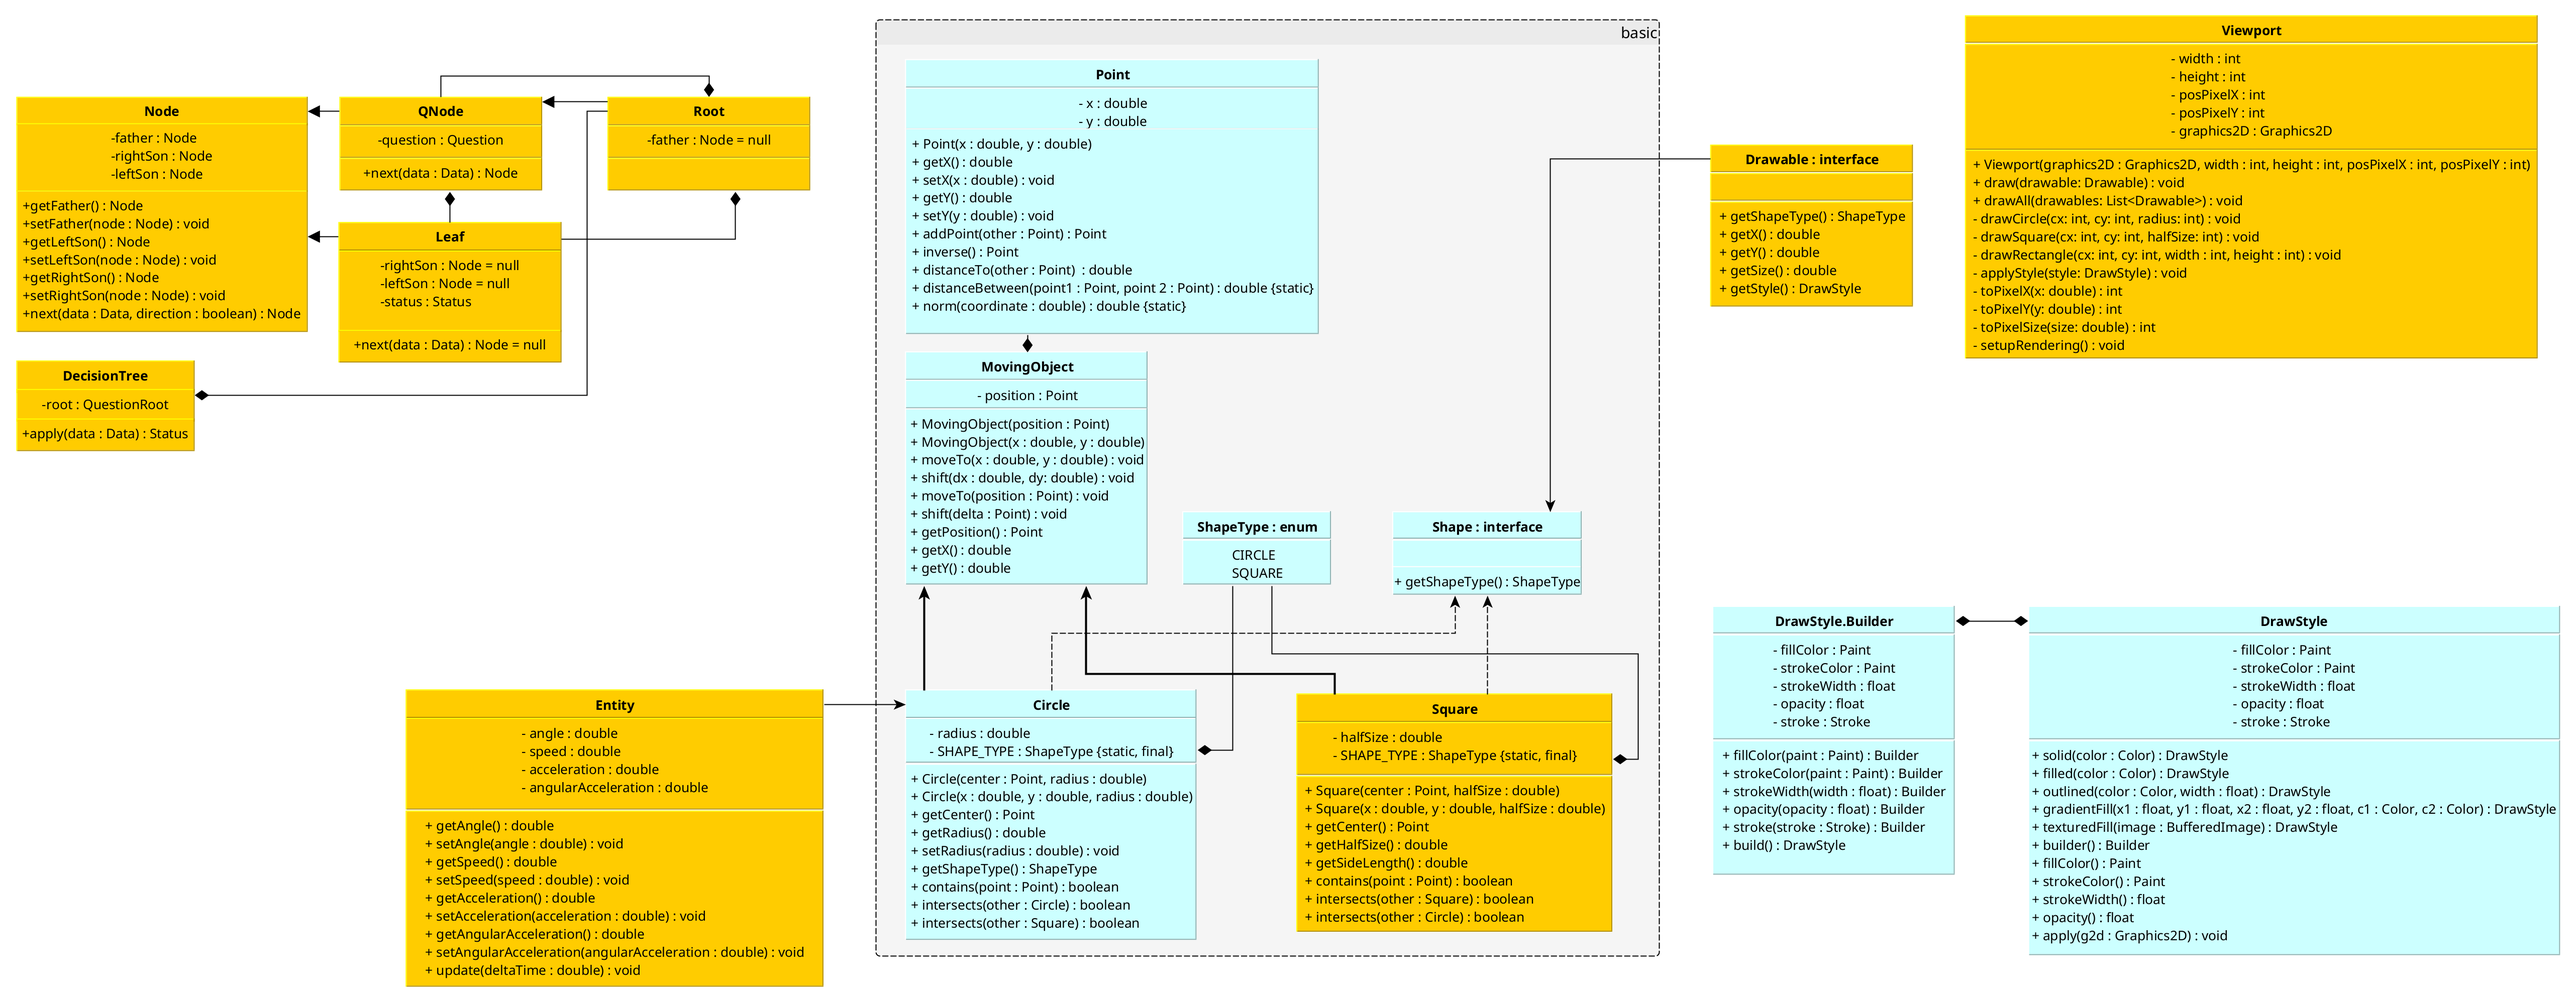
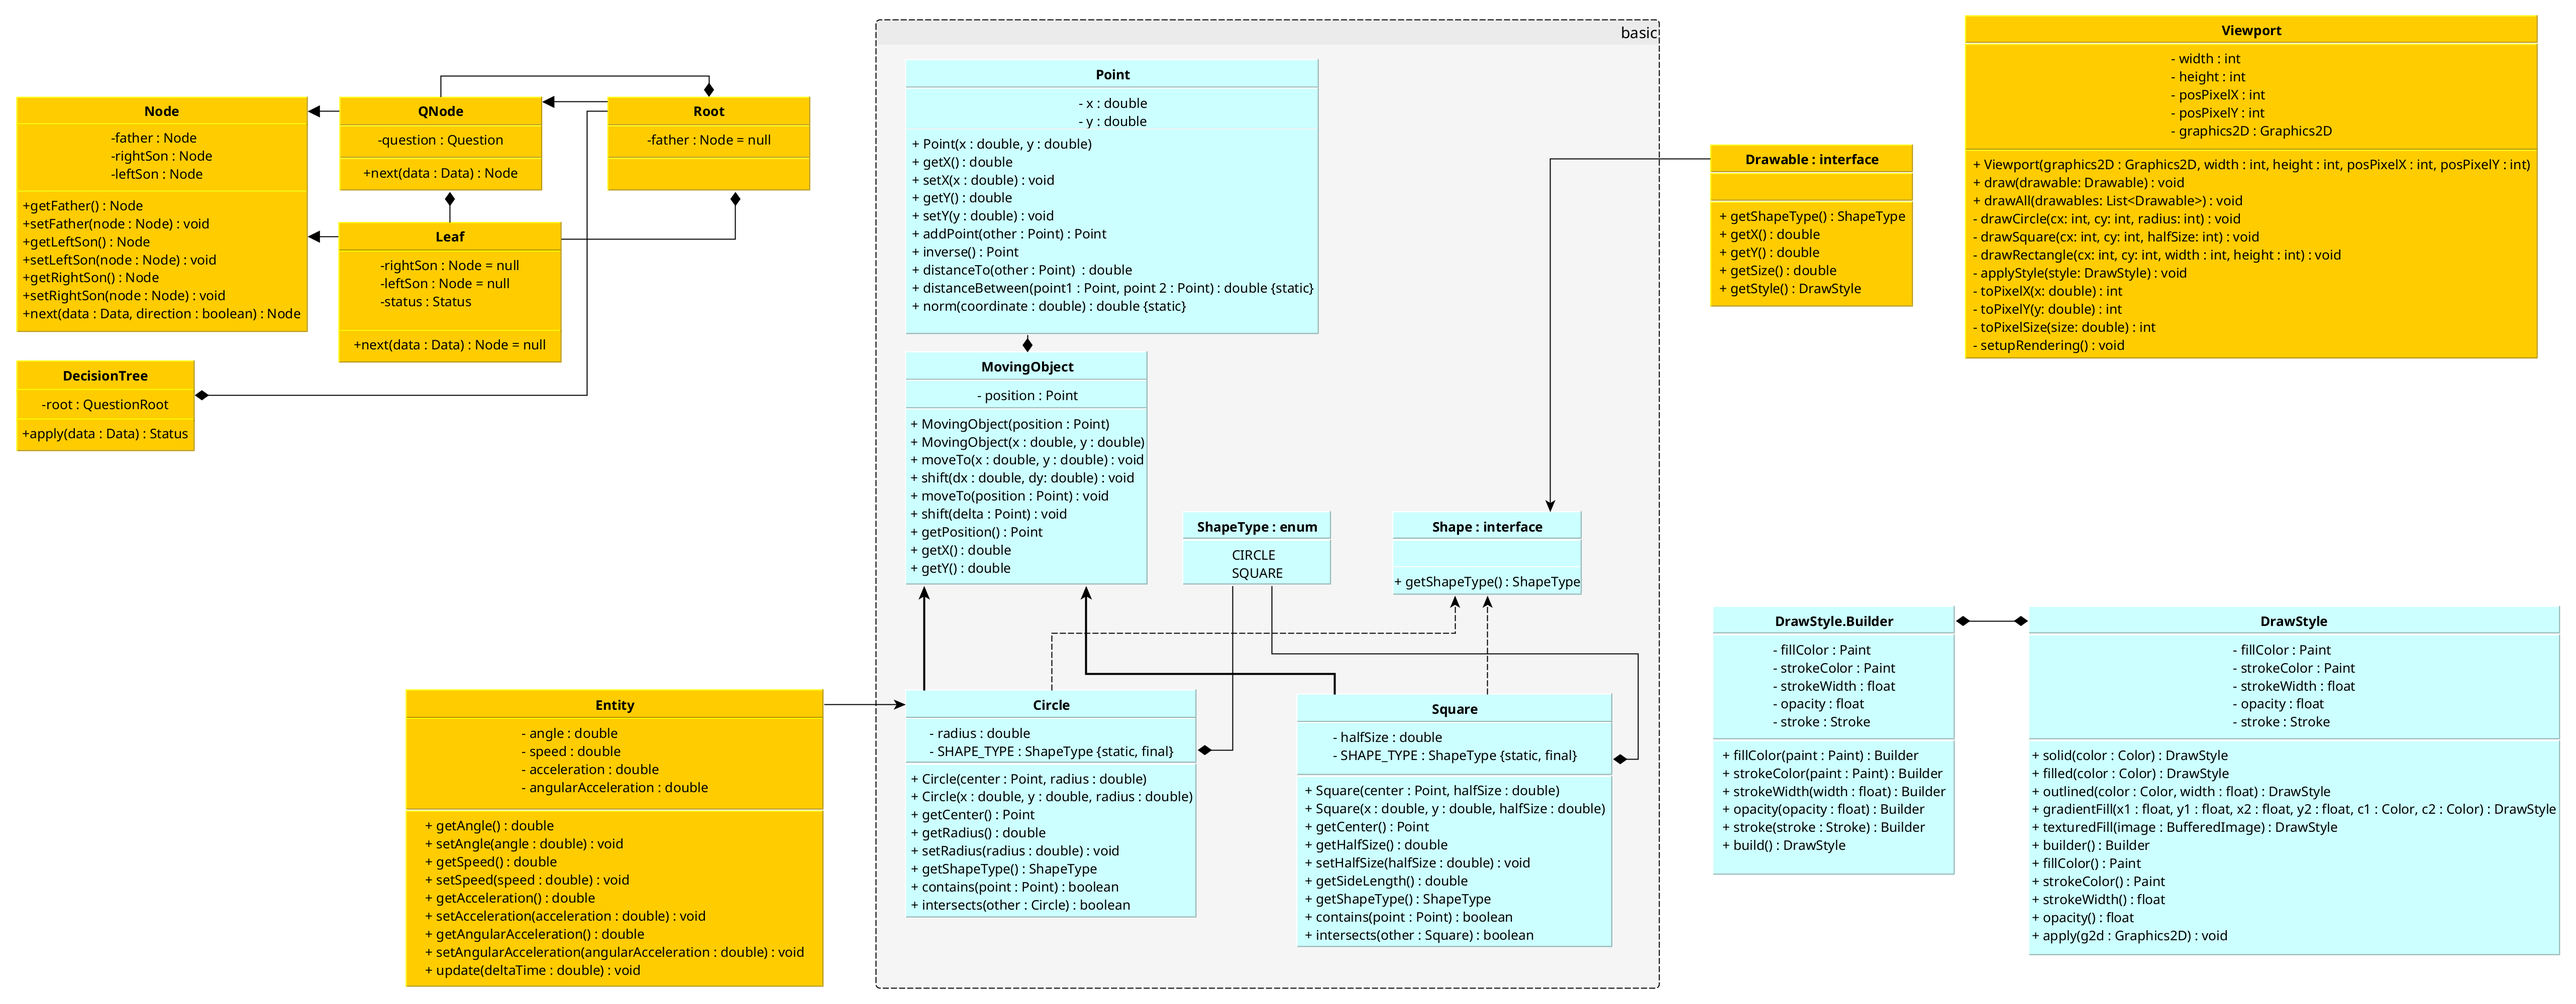
Square + tests

Changed region(s): [[0.4993, 0.682, 0.6241, 0.961], [0.3433, 0.899, 0.4681, 0.961]]

diff --git a/src/test/java/org/jinseisieko/evolution/basic/SquareTest.java b/src/test/java/org/jinseisieko/evolution/basic/SquareTest.java
@@ -1,0 +1,288 @@
+// src/test/java/org/jinseisieko/evolution/basic/SquareTest.java
+package org.jinseisieko.evolution.basic;
+
+import org.junit.jupiter.api.Test;
+import static org.junit.jupiter.api.Assertions.*;
+import org.junit.jupiter.params.ParameterizedTest;
+import org.junit.jupiter.params.provider.CsvSource;
+
+/**
+ * Unit tests for the {@link Square} class, which represents an axis-aligned square region
+ * in a 2D toroidal space [0,1) × [0,1). The square extends {@link MovingObject} and implements
+ * the {@link Shape} interface, adding a half-size parameter that defines the distance
+ * from the center to any side. It supports spatial queries such as point containment
+ * and intersection with other squares, all computed using toroidal distance.
+ * 
+ * @author jinseisieko
+ */
+class SquareTest {
+
+    // === Test constructors and initial state ===
+
+    /**
+     * Verifies that constructing a {@code Square} from a {@code Point} and half-size
+     * correctly initializes its center using normalized coordinates and stores a defensive copy
+     * (i.e., changes to the original {@code Point} do not affect the square).
+     */
+    @Test
+    void constructorWithPoint_shouldSetNormalizedCenterAndHalfSize() {
+        Point p = new Point(1.2, -0.3);
+        Square square = new Square(p, 0.25);
+
+        assertEquals(0.2, square.getX(), 1e-10);
+        assertEquals(0.7, square.getY(), 1e-10);
+        assertEquals(0.25, square.getHalfSize(), 1e-10);
+
+        p.setX(10);
+        assertEquals(0.2, square.getX(), 1e-10);
+    }
+
+    /**
+     * Confirms that the coordinate-based constructor correctly normalizes inputs
+     * and initializes center.
+     */
+    @Test
+    void constructorWithCoordinates_shouldNormalizeAndSetCenterAndHalfSize() {
+        Square square = new Square(1.5, -0.4, 0.3);
+        assertEquals(0.5, square.getX(), 1e-10);
+        assertEquals(0.6, square.getY(), 1e-10);
+        assertEquals(0.3, square.getHalfSize(), 1e-10);
+    }
+
+    /**
+     * Ensures that passing a negative half-size to the constructor
+     * throws an {@link IllegalArgumentException} with a non-empty, informative message,
+     * preserving geometric validity.
+     */
+    @Test
+    void constructorWithNegativeHalfSize_shouldThrowExceptionWithMessage() {
+        IllegalArgumentException ex = assertThrows(IllegalArgumentException.class, () -> {
+            Square square = new Square(0.0, 0.0, -0.5);
+            square.getHalfSize();
+        });
+        assertNotNull(ex.getMessage());
+        assertFalse(ex.getMessage().isBlank());
+    }
+
+    // === Test inherited movement behavior ===
+
+    /**
+     * Validates that {@code Square} correctly inherits {@code moveTo} behavior from {@code MovingObject},
+     * updating its center while preserving the half-size.
+     */
+    @Test
+    void moveTo_shouldUpdateCenterAndPreserveHalfSize() {
+        Square square = new Square(0.1, 0.2, 0.15);
+        Point target = new Point(1.8, -0.1);
+        square.moveTo(target);
+
+        assertEquals(0.8, square.getX(), 1e-10);
+        assertEquals(0.9, square.getY(), 1e-10);
+        assertEquals(0.15, square.getHalfSize(), 1e-10);
+    }
+
+    /**
+     * Confirms that {@code shift} updates the center using toroidal arithmetic
+     * and leaves the half-size unchanged.
+     */
+    @Test
+    void shift_shouldApplyToroidalAdditionToCenterAndPreserveHalfSize() {
+        Square square = new Square(0.8, 0.9, 0.2);
+        Point delta = new Point(0.3, 0.2);
+        square.shift(delta);
+
+        assertEquals(0.1, square.getX(), 1e-10);
+        assertEquals(0.1, square.getY(), 1e-10);
+        assertEquals(0.2, square.getHalfSize(), 1e-10);
+    }
+
+    // === Test half-size mutability ===
+
+    /**
+     * Validates that {@code setHalfSize} updates the half-size when given a non-negative value.
+     */
+    @Test
+    void setHalfSize_shouldUpdateHalfSize() {
+        Square square = new Square(0.0, 0.0, 0.5);
+        square.setHalfSize(0.75);
+        assertEquals(0.75, square.getHalfSize(), 1e-10);
+        square.setHalfSize(0.34);
+        assertEquals(0.34, square.getHalfSize(), 1e-10);
+    }
+
+    /**
+     * Ensures that calling {@code setHalfSize} with a negative argument
+     * throws an {@link IllegalArgumentException} with a non-empty, informative message.
+     */
+    @Test
+    void setNegativeHalfSize_shouldThrowExceptionWithMessage() {
+        Square square = new Square(0.0, 0.0, 0.5);
+        IllegalArgumentException ex = assertThrows(IllegalArgumentException.class, () -> {
+            square.setHalfSize(-0.1);
+        });
+        assertNotNull(ex.getMessage());
+        assertFalse(ex.getMessage().isBlank());
+    }
+
+    // === Test shape type and side length ===
+
+    /**
+     * Confirms that {@code getShapeType()} always returns {@link ShapeType#SQUARE},
+     * as expected for this class.
+     */
+    @Test
+    void getShapeType_shouldReturnSquare() {
+        Square square = new Square(0.0, 0.0, 0.1);
+        assertEquals(ShapeType.SQUARE, square.getShapeType());
+        square.moveTo(0.1, 0.1);
+        assertEquals(ShapeType.SQUARE, square.getShapeType());
+        square.shift(0.1, 0.2);
+        assertEquals(ShapeType.SQUARE, square.getShapeType());
+        square.setHalfSize(0.4);
+        assertEquals(ShapeType.SQUARE, square.getShapeType());
+    }
+
+    /**
+     * Validates that {@code getSideLenght()} correctly returns twice the half-size.
+     */
+    @Test
+    void getSideLenght_shouldReturnTwiceHalfSize() {
+        Square square = new Square(0.0, 0.0, 0.3);
+        assertEquals(0.6, square.getSideLenght(), 1e-10);
+        square.setHalfSize(0.25);
+        assertEquals(0.5, square.getSideLenght(), 1e-10);
+    }
+
+    // === Test containment logic ===
+
+    /**
+     * Validates that {@code contains} returns {@code true} for points inside or on the boundary
+     * of the square, using toroidal axis-aligned bounding box (AABB) logic.
+     */
+    @ParameterizedTest
+    @CsvSource({
+        "0.0, 0.0, 0.3, 0.0, 0.0",
+        "0.0, 0.0, 0.3, 0.3, 0.0",
+        "0.0, 0.0, 0.3, 0.0, 0.3",
+        "0.0, 0.0, 0.3, 0.2, 0.1",
+        "0.8, 0.8, 0.3, 0.0, 0.9",
+        "0.9, 0.9, 0.2, 0.1, 0.1",
+        "0.01, 0.5, 0.1, 0.95, 0.5"
+    })
+    void contains_shouldReturnTrueForPointsInsideOrOnBoundary(
+        double cx, double cy, double halfSize, double px, double py
+    ) {
+        Square square = new Square(cx, cy, halfSize);
+        Point point = new Point(px, py);
+        assertTrue(square.contains(point));
+    }
+
+    /**
+     * Validates that {@code contains} returns {@code false} for points strictly outside
+     * the square, even when wrap-around paths are considered.
+     */
+    @ParameterizedTest
+    @CsvSource({
+        "0.0, 0.0, 0.3, 0.4, 0.0",   // outside right
+        "0.0, 0.0, 0.3, 0.0, 0.4",   // outside top
+        "0.0, 0.0, 0.3, 0.4, 0.4",   // outside diagonal
+        "0.8, 0.8, 0.2, 0.3, 0.3", 
+        "0.9, 0.9, 0.1, 0.2, 0.2" 
+    })
+    void contains_shouldReturnFalseForPointsOutside(
+        double cx, double cy, double halfSize, double px, double py
+    ) {
+        Square square = new Square(cx, cy, halfSize);
+        Point point = new Point(px, py);
+        assertFalse(square.contains(point));
+    }
+
+    /**
+     * Ensures that calling {@code contains(null)} throws an {@link IllegalArgumentException}
+     * with a non-empty, informative message.
+     */
+    @Test
+    void contains_withNullPoint_shouldThrowExceptionWithMessage() {
+        Square square = new Square(0.5, 0.5, 0.2);
+        IllegalArgumentException ex = assertThrows(IllegalArgumentException.class, () -> {
+            square.contains(null);
+        });
+        assertNotNull(ex.getMessage());
+        assertFalse(ex.getMessage().isBlank());
+    }
+
+    // === Test intersection logic ===
+
+    /**
+     * Validates that {@code intersects} returns {@code true} when two squares overlap
+     * or touch (including via toroidal wrap-around), using AABB intersection logic.
+     */
+    @ParameterizedTest
+    @CsvSource({
+        "0.0, 0.0, 0.3, 0.2, 0.0, 0.2",   // overlapping horizontally
+        "0.0, 0.0, 0.3, 0.0, 0.3, 0.3",   // tangent vertically
+        "0.9, 0.9, 0.2, 0.2, 0.2, 0.2",   // wrap-around intersection
+        "0.5, 0.5, 0.4, 0.0, 0.0, 0.4",   // large squares intersecting across center
+        "0.0, 0.0, 0.2, 0.0, 0.4, 0.2",   // touching vertically
+        "0.8, 0.8, 0.3, 0.2, 0.7, 0.1"
+    })
+    void intersects_shouldReturnTrueForOverlappingOrTouchingSquares(
+        double x1, double y1, double h1,
+        double x2, double y2, double h2
+    ) {
+        Square s1 = new Square(x1, y1, h1);
+        Square s2 = new Square(x2, y2, h2);
+        assertTrue(s1.intersects(s2));
+    }
+
+    /**
+     * Validates that {@code intersects} returns {@code false} when two squares are
+     * strictly separated, even when considering toroidal wrap-around.
+     */
+    @ParameterizedTest
+    @CsvSource({
+        "0.0, 0.0, 0.2, 0.5, 0.0, 0.2",   // separated horizontally (gap = 0.1)
+        "0.0, 0.0, 0.2, 0.0, 0.5, 0.2",   // separated vertically
+        "0.0, 0.0, 0.2, 0.5, 0.5, 0.2",   // separated diagonally
+        "0.9, 0.9, 0.1, 0.11, 0.11, 0.1", // wrap-around still too far (dx=0.2 > 0.1+0.1)
+        "0.8, 0.8, 0.3, 0.3, 0.9, 0.1",
+    })
+    void intersects_shouldReturnFalseForSeparatedSquares(
+        double x1, double y1, double h1,
+        double x2, double y2, double h2
+    ) {
+        Square s1 = new Square(x1, y1, h1);
+        Square s2 = new Square(x2, y2, h2);
+        assertFalse(s1.intersects(s2));
+    }
+
+    /**
+     * Ensures that calling {@code intersects(null)} throws an {@link IllegalArgumentException}
+     * with a non-empty message.
+     */
+    @Test
+    void intersects_withNullSquare_shouldThrowExceptionWithMessage() {
+        Square square = new Square(0.5, 0.5, 0.2);
+        IllegalArgumentException ex = assertThrows(IllegalArgumentException.class, () -> {
+            square.intersects(null);
+        });
+        assertNotNull(ex.getMessage());
+        assertFalse(ex.getMessage().isBlank());
+    }
+
+    // === Test defensive copying ===
+
+    /**
+     * Validates that {@code getCenter()} returns a defensive copy of the internal position,
+     * so external modifications do not affect the square’s state.
+     */
+    @Test
+    void getCenter_shouldReturnDefensiveCopy() {
+        Square square = new Square(0.3, 0.7, 0.1);
+        Point center = square.getCenter();
+        center.setX(0.999);
+        assertEquals(0.3, square.getX(), 1e-10);
+        center.setY(0.999);
+        assertEquals(0.3, square.getX(), 1e-10);
+    }
+}

diff --git a/src/main/java/org/jinseisieko/evolution/basic/Square.java b/src/main/java/org/jinseisieko/evolution/basic/Square.java
@@ -1,0 +1,73 @@
+// src/main/java/org/jinseisieko/evolution/basic/Square.java
+package org.jinseisieko.evolution.basic;
+
+/**
+ *
+ * @author jinseisieko
+ */
+public class Square extends MovingObject implements Shape {
+    private double halfSize;
+    private static final ShapeType SHAPE_TYPE = ShapeType.SQUARE;
+
+    public Square(Point center, double halfSize) {
+        super(center);
+        if (halfSize < 0) {
+            throw new IllegalArgumentException("HalfSize cannot be less than zero");
+        }
+        this.halfSize = halfSize;
+    }
+
+    public Square(double x, double y, double halfSize) {
+        super(x, y);
+        if (halfSize < 0) {
+            throw new IllegalArgumentException("halfSize cannot be less than zero");
+        }
+        this.halfSize = halfSize;
+    }
+
+    public Point getCenter() {
+        return this.getPosition();
+    }
+
+    public double getHalfSize() {
+        return halfSize;
+    }
+
+    public void setHalfSize(double halfSize) {
+        if (halfSize < 0) {
+            throw new IllegalArgumentException("HalfSize cannot be less than zero");
+        }
+        this.halfSize = halfSize;
+    }
+
+    public double getSideLenght() {
+        return this.halfSize*2;
+    }
+
+    @Override
+    public ShapeType getShapeType() {
+        return SHAPE_TYPE;
+    }
+
+    public boolean contains(Point point) {
+         if (point == null) {
+            throw new IllegalArgumentException("Point cannot be null");
+        }
+        double diffX = Math.abs(point.getX() - this.getX());
+        double diffY = Math.abs(point.getY() - this.getY());
+        double dx = Math.min(diffX, 1 - diffX);
+        double dy = Math.min(diffY, 1 - diffY);
+        return dx - this.getHalfSize() <= 1e-12 && dy - this.getHalfSize() <= 1e-12;
+    }
+
+    public boolean intersects(Square other) {
+        if (other == null) {
+            throw new IllegalArgumentException("Other square cannot be null");
+        }
+        double diffX = Math.abs(other.getX() - this.getX());
+        double diffY = Math.abs(other.getY() - this.getY());
+        double dx = Math.min(diffX, 1 - diffX);
+        double dy = Math.min(diffY, 1 - diffY);
+        return dx - (this.getHalfSize() + other.getHalfSize()) <= 1e-12 && dy - (this.getHalfSize() + other.getHalfSize()) <= 1e-12;
+    }
+}

diff --git a/src/main/java/org/jinseisieko/evolution/basic/Circle.java b/src/main/java/org/jinseisieko/evolution/basic/Circle.java
@@ -28,7 +28,7 @@ public class Circle extends MovingObject implements Shape {
     public Circle(Point center, double radius) {
         super(center);
         if (radius < 0) {
-            throw new IllegalArgumentException("Initial radius cannot be less than zero");
+            throw new IllegalArgumentException("Radius cannot be less than zero");
         }
         this.radius = radius;
     }
@@ -45,7 +45,7 @@ public class Circle extends MovingObject implements Shape {
     public Circle(double x, double y, double radius) {
         super(x, y);
         if (radius < 0) {
-            throw new IllegalArgumentException("Initial radius cannot be less than zero");
+            throw new IllegalArgumentException("Radius cannot be less than zero");
         }
         this.radius = Math.max(0.0, radius);
     }
